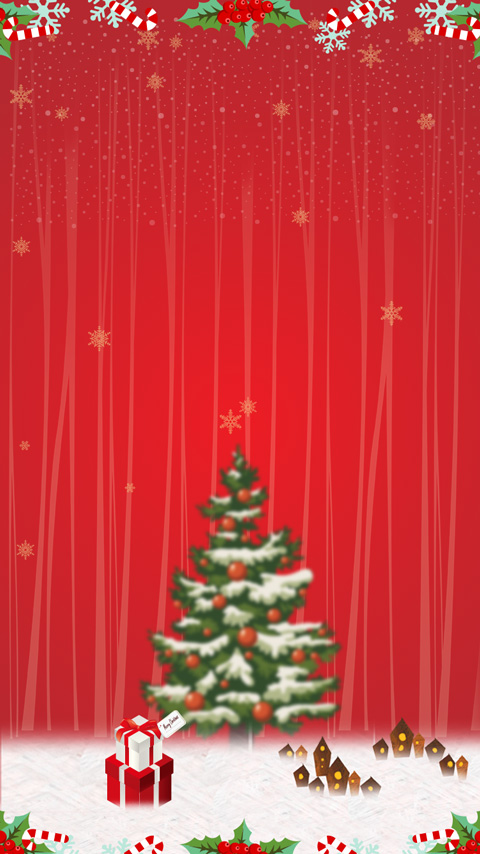
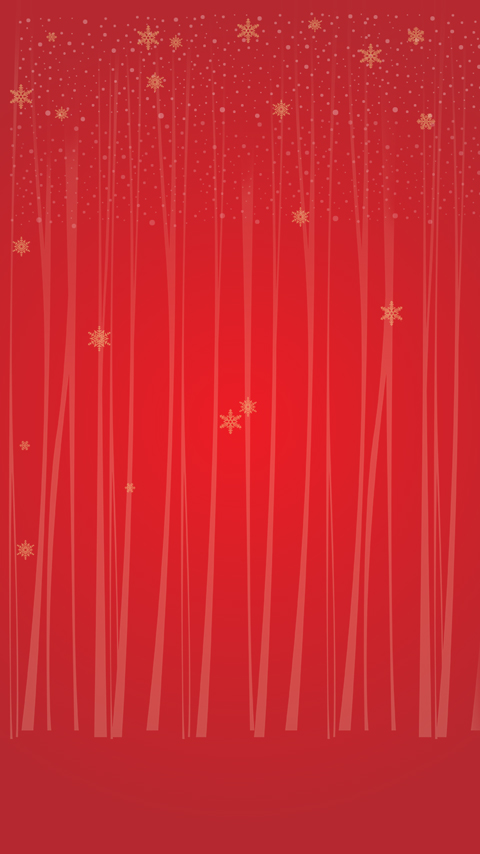
增加背景树的移动

diff --git a/flybird/public/bird/js/play.js b/flybird/public/bird/js/play.js
@@ -30,6 +30,10 @@ var play_state = {
 		this.bo.width = game.world.width;
 		this.bo.height = game.world.height;*/
 		
+        this.trees = game.add.group();
+		this.trees.createMultiple(3, 'tree'); 
+        game.physics.arcade.enable(this.trees, true);
+		
         this.merry_Christmas = this.game.add.sprite(game.world.width/2, game.world.height/2-100*pixelRatio, 'merry');
         this.merry_Christmas.scale.x = game.world.width * 0.5 / this.merry_Christmas.width;
 		this.merry_Christmas.scale.y = this.merry_Christmas.scale.x;
@@ -85,6 +89,8 @@ var play_state = {
         this.ground = this.game.add.sprite(-1*game.world.width, 0, 'ground');
         this.ground.scale.x = game.world.width / this.ground.width;
         this.ground.scale.y = this.ground.scale.x;
+        
+        this.add_one_tree(game.world.width/2);
 		
         this.bird = this.game.add.sprite(100, 245, 'bird');
         game.physics.arcade.enable(this.bird);
@@ -163,7 +169,7 @@ var play_state = {
             return; 
 
         this.bird.body.velocity.y = -250*pixelRatio;
-        this.game.add.tween(this.bird).to({angle: -20}, 50).start();
+        this.game.add.tween(this.bird).to({angle: -10}, 50).start();
         this.jump_sound.play();
     },
     //收集bra
@@ -251,6 +257,10 @@ var play_state = {
             g.body.velocity.x = 0;
         }, this);
         
+        this.trees.forEachAlive(function(tree){
+            tree.body.velocity.x = 0;
+        }, this);
+        
         this.bras.forEachAlive(function(p){
             p.body.velocity.x = 0;
         }, this);
@@ -319,6 +329,30 @@ var play_state = {
 		        }, this);
 	    	}
         }
+    },
+    
+    //增加一棵背景树
+    add_one_tree: function(x, y) {
+    	x = x != null? x:game.world.width*3/2;
+    	y = y != null? y:game.world.height-this.ground.height*0.73;
+        var tree = this.trees.getFirstDead();
+        if(!tree)
+        {
+        	tree = this.game.add.sprite(x, y, 'tree');
+        	game.physics.arcade.enable(tree);
+        	this.trees.add(tree);
+        }
+        tree.reset(x, y);
+        if(game.world.width * 0.4 != tree.width)
+        {
+        	tree.scale.x = game.world.width * 0.4 / tree.width;
+	        tree.scale.y = tree.scale.x;
+	        tree.anchor.setTo(0.5, 1);
+        }
+        
+        //tree.checkWorldBounds = true;
+        //tree.outOfBoundsKill = true;
+        tree.body.velocity.x = -1*game.world.width/this.braIntervals[this.level];
     },
     
     //增加地面背景
@@ -451,8 +485,10 @@ var play_state = {
         
         this.add_one_ground();
         
+       this.add_one_tree();
+        
         var pipeHeight = this.pipe.height;
-        var holeHeight = this.bird.height * 3.5;
+        var holeHeight = this.bird.height * 3;
         var holePosY = Math.floor(Math.random()*(game.world.height * 0.8 - this.ground.height - holeHeight)) + game.world.height * 0.10;
         
         var comeBra = Math.floor(Math.random() * 3) + 2;

diff --git a/flybird/public/bird/js/load.js b/flybird/public/bird/js/load.js
@@ -36,6 +36,7 @@ var load_state = {
         this.game.load.image('ground','/bird/image/ground.png');
 		this.game.load.audio('get_bra','/bird/image/get-music.wav');
 		this.game.load.image('bird_die','/bird/image/bird-die.png');
+		this.game.load.image('tree','/bird/image/tree.png');
     },
 
     create: function() {
